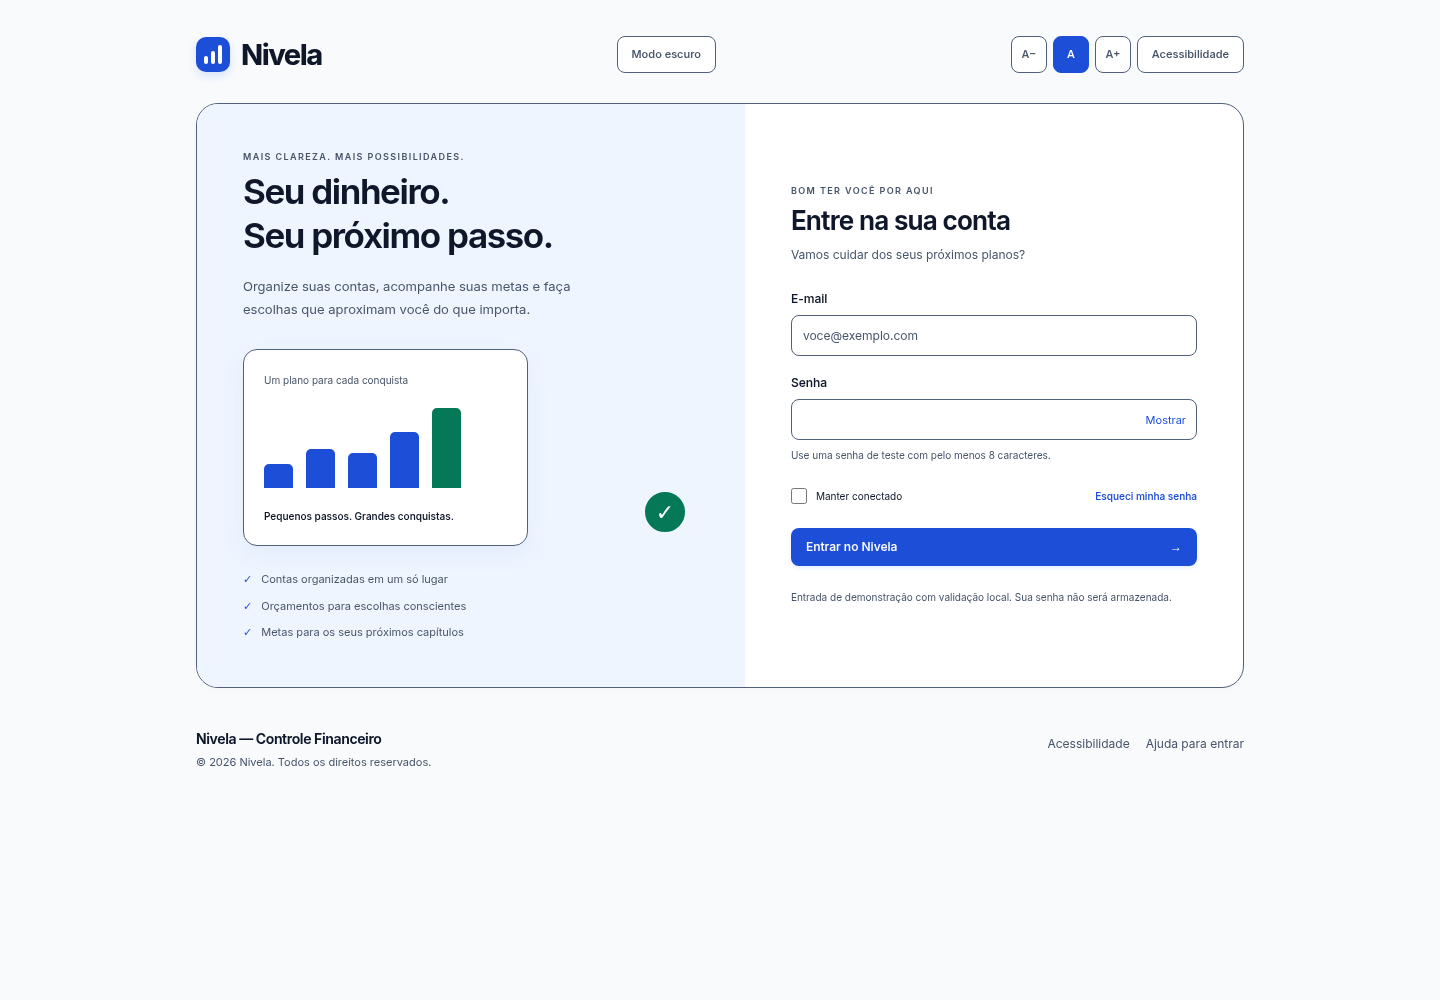
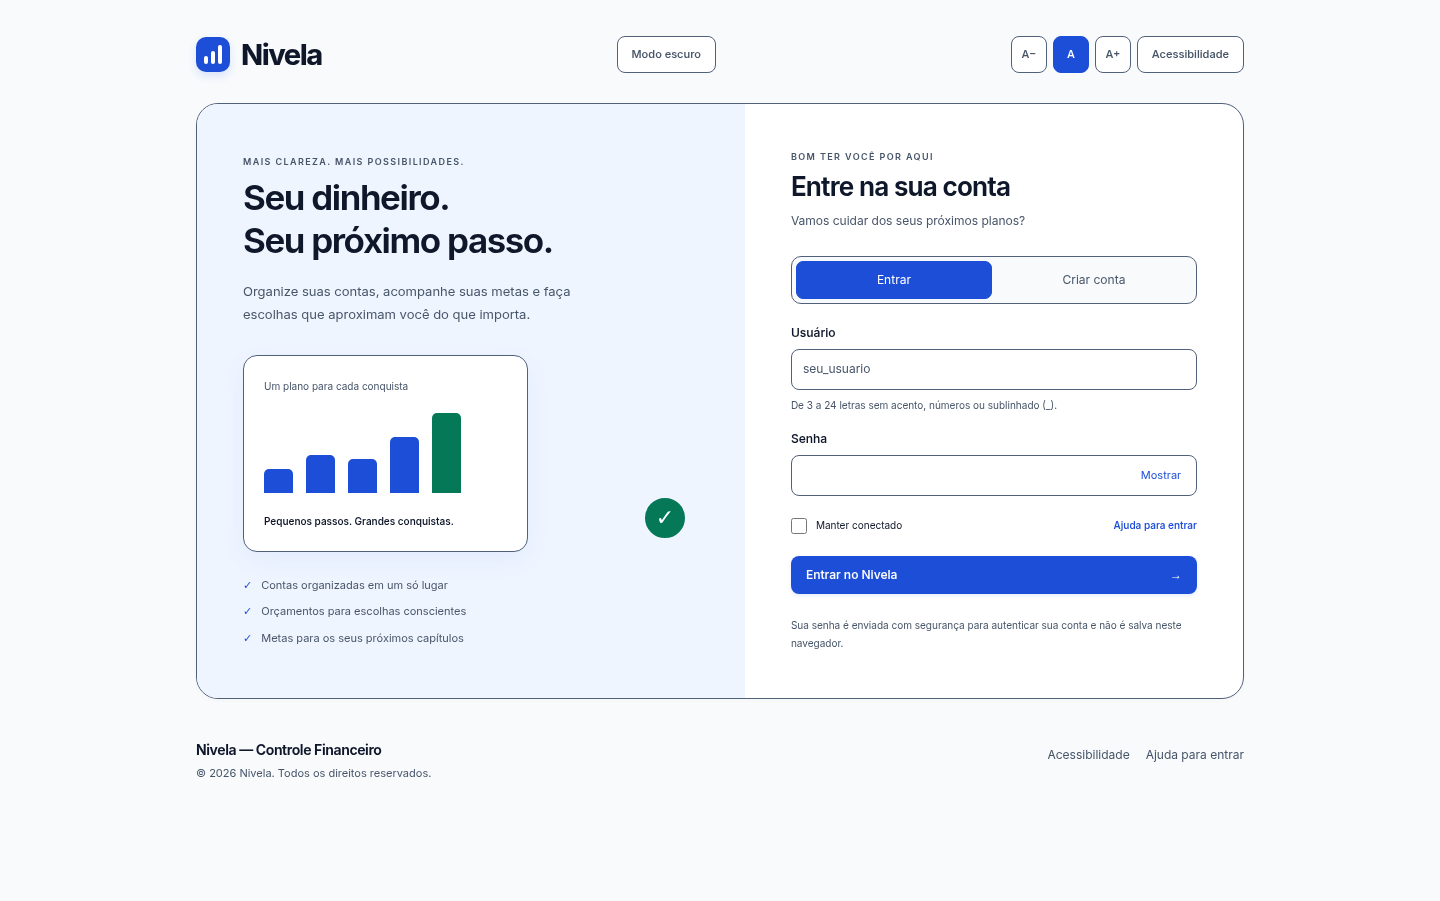
atualizando readme com cadastro e banco de dados

diff --git a/README.md b/README.md
@@ -7,7 +7,7 @@
   <h1>Nivela — Controle Financeiro</h1>
 
   <p><strong>Mais clareza para o seu dinheiro. Mais espaço para os seus planos.</strong></p>
-  <p>Um painel de finanças pessoais feito com HTML, CSS e JavaScript puro.</p>
+  <p>Finanças pessoais com conta própria, dados salvos no Supabase<br>e uma interface feita com HTML, CSS e JavaScript puro.</p>
 
   <p>
     <img src="docs/readme/tecnologias/html5.svg" alt="HTML5" title="HTML5" width="32" height="32">
@@ -23,6 +23,8 @@
     <a href="#telas-do-projeto">Ver as telas</a>
     &nbsp; · &nbsp;
     <a href="#sua-conta-e-seus-dados">Sua conta e seus dados</a>
+    &nbsp; · &nbsp;
+    <a href="#documentação-e-verificações">Documentação</a>
   </p>
 
   <picture>
@@ -37,37 +39,56 @@
 
 Abrir o painel e entender como está o mês, sem precisar procurar cada informação em um lugar diferente. Essa foi a ideia que guiou o Nivela: reunir saldo, despesas, contas e planos em uma interface fácil de consultar.
 
-O projeto nasceu no trabalho final de **Desenvolvimento de Interfaces do CEUB**. Começou com a estrutura em HTML e CSS e foi ganhando filtros, formulários, cálculos e opções de acessibilidade. Tudo foi construído com recursos nativos da web, sem frameworks de interface ou bibliotecas de gráficos.
+O projeto nasceu no trabalho final de **Desenvolvimento de Interfaces do CEUB**. Começou com a estrutura em HTML e CSS, ganhou interatividade com JavaScript e passou a ter cadastro, autenticação e banco de dados no Supabase. A interface continua usando recursos nativos da web, sem frameworks, bibliotecas de gráficos ou CDNs.
+
+Hoje, cada pessoa cria sua própria conta e começa com o painel zerado. Os lançamentos ficam vinculados ao usuário no banco, então é possível sair, voltar depois ou acessar em outro navegador sem perder o que foi registrado.
+
+## Seu primeiro acesso
+
+[Abra o Nivela](https://luizfelip-dev.github.io/website/login.html), escolha **Criar conta** e informe um usuário, uma senha e a confirmação da senha. Não precisa fornecer e-mail. Depois do cadastro, você entra no painel e pode configurar seu saldo inicial, registrar as primeiras movimentações e definir seus orçamentos.
+
+Se já tiver uma conta, basta usar a opção **Entrar**. Marcar **Manter conectado** permite guardar a sessão entre visitas naquele navegador. As opções de tema, contraste e tamanho da fonte ficam disponíveis antes mesmo de entrar.
 
 ## O que dá pra fazer
 
 | No Nivela | Como funciona |
 | --- | --- |
-| **Resumo do mês** | Consultar pagamentos e recebimentos do mês e o saldo acumulado, com atualização após cada lançamento confirmado. |
+| **Resumo do mês** | Escolher o mês e acompanhar saldo total, receitas, despesas e resultado líquido com base nos pagamentos e recebimentos confirmados. |
 | **Contas a pagar e receber** | Filtrar os vencimentos e confirmar pagamentos ou recebimentos, usando os mesmos dados da tabela. |
 | **Busca de movimentações** | Combinar filtros de receitas e despesas com uma pesquisa por descrição ou categoria, sem se preocupar com acentos. |
-| **Novas transações** | Criar, editar e excluir receitas, despesas e transferências; dividir uma compra em **2 a 24 parcelas** ou repetir um lançamento por **12 meses**. |
+| **Transações completas** | Criar, editar e excluir receitas, despesas e transferências; marcar como pago ou pendente; dividir uma compra em **2 a 24 parcelas** ou repetir um lançamento por **12 meses**. |
 | **Orçamentos e metas** | Definir limites por categoria, receber alertas a partir de **80% e 100%** e criar metas com o valor que você já guardou. |
 | **Educação financeira** | Navegar por dicas com ilustrações próprias, controles de anterior/próximo e pausa da rotação. |
 | **Preferências de leitura** | Escolher tema claro ou escuro, ativar alto contraste e ajustar a fonte de **87,5% a 125%**. |
-| **Entrada e suporte** | Criar conta com usuário e senha, entrar com autenticação real e registrar uma mensagem de suporte. |
+| **Perfil e suporte** | Ajustar o nome exibido e o saldo inicial, além de registrar uma mensagem de suporte e receber seu protocolo. |
 
-Os lançamentos, limites e metas ficam salvos no Supabase, separados por conta. As preferências de leitura continuam no navegador. Sair encerra a sessão e preserva seus dados.
+O que aparece na agenda, nos gráficos e na tabela vem dos mesmos lançamentos. Uma conta marcada como paga atualiza o painel sem precisar cadastrar a informação de novo em outro lugar.
 
 ## Telas do projeto
 
-O painel tem versões clara e escura, e as opções de leitura também estão disponíveis no login. As capturas ilustram a interface; uma conta nova começa com os valores zerados.
+O painel tem versões clara e escura, com cartões que se reorganizam conforme a tela. As capturas do painel e da versão mobile mostram dados ilustrativos; **uma conta nova começa sem lançamentos, com saldo e limites zerados**. As telas de entrada e cadastro abaixo mostram o acesso atual por usuário e senha.
 
 <details>
-  <summary><strong>Ver login e painel de acessibilidade</strong></summary>
+  <summary><strong>Ver entrada e criação de conta</strong></summary>
 
   <br>
 
-  | Entrada | Acessibilidade |
+  | Entrar | Criar conta |
   | :---: | :---: |
-  | ![Login do Nivela no tema claro](docs/readme/login.png) | ![Painel de acessibilidade com tema, fonte e alto contraste](docs/readme/acessibilidade.png) |
+  | ![Entrada do Nivela com campos de usuário e senha](docs/readme/login.png) | ![Cadastro do Nivela com usuário, senha e confirmação da senha](docs/readme/cadastro.png) |
 
-  As janelas fecham por botão, pela tecla `Esc` ou pelo clique fora. Ao fechar, o foco retorna ao controle que abriu a janela.
+  Os formulários permitem mostrar ou ocultar a senha e exibem feedback de validação, carregamento e limite de tentativas.
+
+</details>
+
+<details>
+  <summary><strong>Ver as opções de acessibilidade</strong></summary>
+
+  <br>
+
+  <img src="docs/readme/acessibilidade.png" alt="Painel de acessibilidade com opções de tema, tamanho da fonte e alto contraste" width="100%">
+
+  As janelas fecham por botão, pela tecla `Esc` ou pelo clique fora. Ao fechar, o foco retorna ao controle que abriu a janela. O carrossel pausa ao receber foco ou passar o mouse, e respeita a preferência de movimento reduzido do sistema.
 
 </details>
 
@@ -86,15 +107,29 @@ O painel tem versões clara e escura, e as opções de leitura também estão di
 
 ## Por trás da interface
 
-O **HTML5** organiza a navegação, os cartões, os formulários e os modais com elementos semânticos. O **CSS3** cuida do layout em Grid e Flexbox, dos temas e dos gráficos: a rosca usa `conic-gradient`, e as barras variam de altura conforme os dados. O **JavaScript** conecta as interações e atualiza a página sem recarregar. O **Supabase** fornece autenticação, banco PostgreSQL e a função de cadastro executada no servidor. A integração usa APIs REST e não carrega SDK ou framework no navegador.
+| Tecnologia | Onde entra |
+| --- | --- |
+| **HTML5** | Estrutura semântica com navegação, cartões, tabelas, formulários e modais nativos com `<dialog>`. |
+| **CSS3** | Layout com Grid e Flexbox, temas com variáveis, responsividade e gráficos feitos com `conic-gradient` e barras em CSS. |
+| **Vanilla JavaScript** | Interações, cálculos, filtros, validação e comunicação com as APIs usando `fetch`. |
+| **Supabase Auth** | Criação de contas, autenticação por senha e renovação da sessão. |
+| **PostgreSQL + RLS** | Persistência dos dados e políticas que restringem cada conta aos próprios registros. |
+| **Edge Function em JavaScript/Deno** | Validação do cadastro e controle de tentativas no servidor antes de criar a conta. |
+| **GitHub Pages** | Publicação dos arquivos da interface. O backend fica no projeto Supabase dedicado, no plano gratuito. |
 
-Algumas escolhas que fazem diferença no uso:
+A integração usa **APIs REST, sem SDK no navegador**. O front-end envia os dados para o Supabase, enquanto as credenciais administrativas ficam no ambiente da função de servidor. A fonte Inter, as ilustrações SVG, os scripts e os estilos são arquivos locais do projeto.
 
-- Os valores são calculados em **centavos inteiros**. Uma compra de R$ 100,00 em três parcelas fica em R$ 33,34 + R$ 33,33 + R$ 33,33, preservando o total.
-- Lançamentos do tipo Transferência **não entram em receitas ou despesas** e não alteram o saldo total.
-- O resumo usa os pagamentos e recebimentos confirmados do mês. O saldo inclui o histórico anterior, e os orçamentos também consideram despesas previstas.
-- Status combinam texto e cor. O foco é visível, as imagens têm descrições e o carrossel respeita `prefers-reduced-motion`.
-- A fonte Inter, as ilustrações, os scripts e os estilos são carregados de arquivos locais.
+### Como os valores são calculados
+
+O **resultado líquido** é a diferença entre receitas recebidas e despesas pagas no mês escolhido. O **saldo total** soma o saldo inicial ao histórico de movimentações confirmadas até aquele mês. Contas pendentes aparecem na agenda; os orçamentos também consideram essas despesas previstas para mostrar o que já está comprometido. Filtrar a tabela muda apenas os itens visíveis, sem alterar os totais do mês.
+
+Os cálculos usam **centavos inteiros**. Por exemplo, uma compra de R$ 100,00 em três parcelas fica em R$ 33,34 + R$ 33,33 + R$ 33,33, preservando o total. Já a recorrência repete o valor integral por 12 meses. As ocorrências futuras começam pendentes, e editar ou excluir um item afeta somente aquela ocorrência.
+
+Transferências ficam registradas, mas são neutras no saldo consolidado e não entram como receita ou despesa. As metas acompanham os valores informados por você; elas não retiram dinheiro do saldo nem fazem uma transferência bancária.
+
+### Leitura e navegação
+
+Tema claro, modo escuro, alto contraste e ajuste de fonte entre **87,5% e 125%** estão disponíveis no login e no painel. A navegação inclui foco visível, atalho para pular ao conteúdo, rótulos nos campos, descrições nas imagens e mensagens anunciadas por regiões `aria-live`. Os status combinam texto e cor para que a informação não dependa só da aparência.
 
 <details>
   <summary><strong>Conhecer a organização dos arquivos</strong></summary>
@@ -102,7 +137,7 @@ Algumas escolhas que fazem diferença no uso:
 ```text
 website/
 ├── index.html                 # Dashboard
-├── login.html                 # Entrada
+├── login.html                 # Entrada e criação de conta
 ├── README.md
 ├── .nojekyll
 ├── assets/
@@ -115,18 +150,20 @@ website/
 │   │   ├── config.js          # URL e chave publicável do projeto
 │   │   ├── session.js         # Autenticação, tokens e saída
 │   │   ├── data.js            # Leitura e gravação por usuário
-│   │   ├── login.js           # Formulário de entrada
+│   │   ├── login.js           # Entrada, cadastro e feedback
 │   │   ├── carousel.js        # Navegação e pausas das dicas
 │   │   └── accessibility.js   # Tema, fonte e contraste
 │   ├── img/                   # Ilustrações SVG próprias
 │   ├── fonts/                 # Inter e sua licença
 │   └── favicon.svg
 ├── supabase/
+│   ├── README.md              # Configuração e detalhes do backend
 │   ├── schema.sql             # Tabelas e políticas de acesso
 │   ├── username-auth.sql      # Cadastro e limites de tentativas
 │   └── functions/nivela-auth/ # Cadastro executado no servidor
-├── tests/                     # Testes locais de autenticação e dados
+├── tests/                     # Testes de autenticação, dados e função Edge
 └── docs/
+    ├── validacao-supabase.md   # Registro das verificações da integração
     └── readme/                # Capturas de tela e ícones das tecnologias
 ```
 
@@ -134,15 +171,45 @@ website/
 
 ## Sua conta e seus dados
 
-O cadastro pede **usuário, senha e confirmação da senha**, sem coletar e-mail. O usuário aceita de 3 a 24 letras sem acento, números e `_`. A senha precisa ter pelo menos 8 caracteres. Guarde essas informações: esta versão não oferece recuperação por e-mail.
+O cadastro pede **usuário, senha e confirmação da senha**, sem coletar e-mail. O usuário aceita de **3 a 24 caracteres**, entre letras sem acento, números e `_`, e é convertido para minúsculas. A senha precisa ter pelo menos **8 caracteres**. Guarde essas informações: esta versão não oferece recuperação automática de acesso.
 
-A criação da conta passa por uma função no servidor. Ela verifica os dados e limita as tentativas por IP e navegador, com contagem persistida no banco. Apagar o armazenamento do navegador não remove o limite de IP. As políticas de **Row Level Security (RLS)** controlam o acesso aos dados financeiros de cada pessoa; a chave publicável do front-end não dá acesso às contas de outros usuários.
+| Informação | Onde fica |
+| --- | --- |
+| Perfil, saldo inicial, transações, limites e metas | No banco do Supabase, vinculados à conta autenticada. |
+| Mensagens de suporte | No banco, com registro do autor e protocolo de confirmação. |
+| Tema, contraste e tamanho da fonte | No `localStorage` daquele navegador. |
+| Sessão de acesso | No `localStorage` com **Manter conectado**, ou no `sessionStorage` sem essa opção. A senha não é salva nesses armazenamentos. |
 
-O banco está em um projeto dedicado no plano gratuito. As instruções técnicas de configuração e os limites do cadastro estão em [supabase/README.md](supabase/README.md). Para verificar o cliente sem conectar dados reais, consulte [tests/README.md](tests/README.md).
+Sair encerra a sessão sem apagar os registros da conta. As políticas de **Row Level Security (RLS)** verificam o usuário autenticado no próprio banco. Essa proteção não depende apenas dos filtros da interface: uma conta não recebe permissão para consultar ou alterar os dados financeiros de outra.
+
+### Uma barreira contra cadastros em excesso
+
+A criação da conta passa por uma função no servidor, que valida os dados e reserva uma tentativa no banco antes de criar o usuário. Os limites atuais são:
+
+| Origem das tentativas | Limite |
+| --- | --- |
+| Mesmo IP | **5** nos últimos **60 minutos** |
+| Mesmo IP | **20** nas últimas **24 horas** |
+| Mesmo navegador | **3** nas últimas **24 horas** |
+| Projeto inteiro | **200** nas últimas **24 horas** |
+
+São limites de **tentativas**, inclusive quando o nome escolhido já está em uso. Ao atingir uma cota, o cadastro retorna HTTP `429` e a interface informa o tempo de espera. A contagem fica no servidor: apagar os dados do navegador não remove a cota por IP. O identificador do navegador funciona como uma proteção complementar.
+
+A tabela de tentativas guarda hashes dos identificadores, sem salvar o IP em texto. O fluxo também valida o tamanho da requisição e usa um campo oculto para detectar preenchimento automático por bots. Esses cuidados ajudam a conter a criação de contas em excesso; os detalhes da implementação ficam na [documentação do backend](supabase/README.md).
+
+## Documentação e verificações
+
+| Para conhecer melhor | Onde olhar |
+| --- | --- |
+| Configuração do Supabase, tabelas, acesso por usuário e regras de cadastro | [Banco e cadastro do Nivela](supabase/README.md) |
+| Testes de autenticação, dados e função Edge, sem criar contas reais | [Guia dos testes](tests/README.md) |
+| Resultados dos testes com o banco real e o que foi verificado em simulação | [Validação da integração](docs/validacao-supabase.md) |
+
+O projeto possui **79 testes automatizados com módulos nativos do Node.js**, cobrindo autenticação, persistência do cliente e o handler de cadastro com transporte simulado. A integração também foi conferida com duas contas temporárias no Supabase real: cadastro, entrada, gravação, recarga da página e isolamento entre usuários. O registro de validação diferencia essas verificações dos testes simulados.
 
 ## Sobre esta versão
 
-O Nivela continua sendo um **projeto acadêmico**, agora com autenticação e persistência remotas. Você pode consultar outros meses, configurar seu saldo inicial e acompanhar contas pendentes. As metas registram seu planejamento; elas não realizam transferências bancárias. O suporte grava a mensagem no banco, sem enviar e-mail automaticamente.
+O Nivela é um **projeto acadêmico com autenticação e persistência remotas**. As movimentações são cadastradas manualmente: não há conexão com bancos ou importação automática de extratos. A mensagem de suporte é registrada no banco com confirmação na tela, sem envio automático de e-mail. O acesso aos dados financeiros depende de conexão com a internet.
 
 ## Próximas ideias
 
